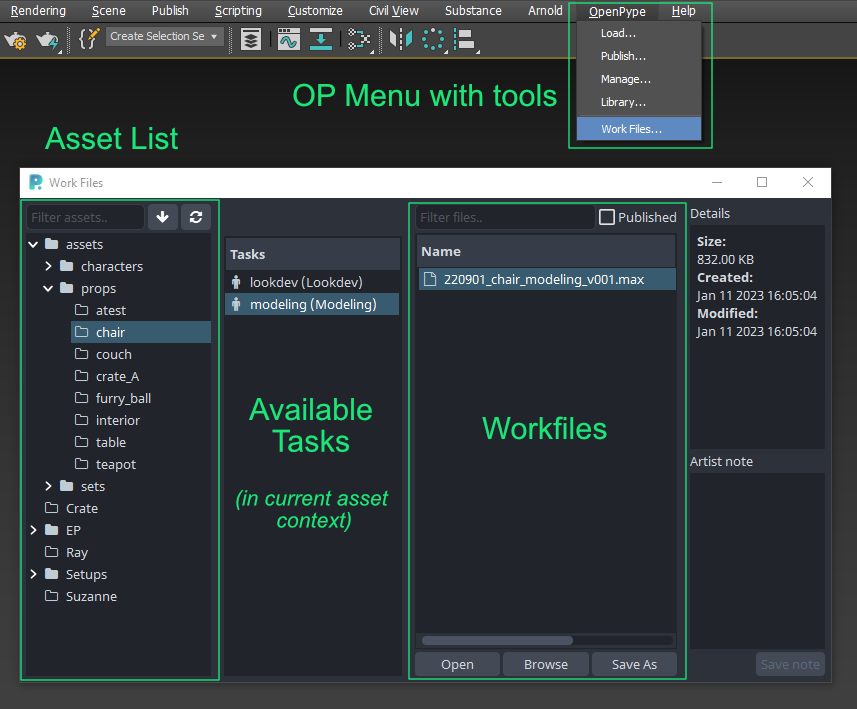
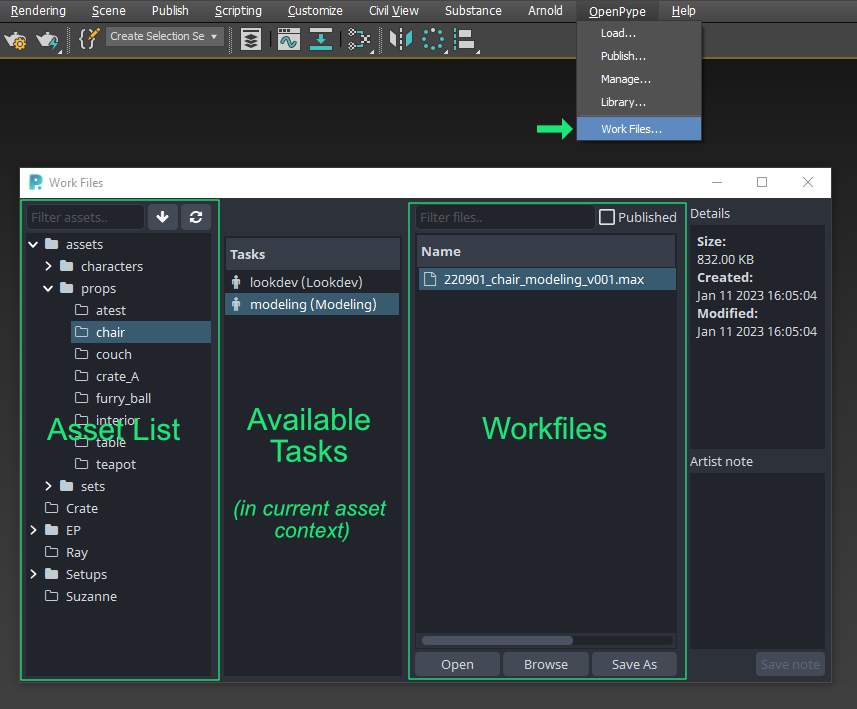
new pics and descriptions, also marked unused topics originating from blender host doc

diff --git a/website/docs/artist_hosts_3dsmax.md b/website/docs/artist_hosts_3dsmax.md
@@ -20,13 +20,15 @@ This part of documentation is still work in progress.
 -->
 
 
-## First Steps With OpenPype Running
+## First Steps With OpenPype
 
 Locate **OpenPype Icon** in the OS tray (if hidden dive in the tray toolbar).
 
-*If you cannot locate the OpenPype icon ...it is not probably running so check [Getting Started](artist_getting_started.md) first.*
+> If you cannot locate the OpenPype icon ...it is not probably running so check [Getting Started](artist_getting_started.md) first.
 
-By **clicking the OP icon**  ```OpenPype Menu``` rolls out. Choose ```OpenPype Menu > Launcher``` to open the ```Launcher``` window.
+By clicking the icon  ```OpenPype Menu``` rolls out.
+
+Choose ```OpenPype Menu > Launcher``` to open the ```Launcher``` window.
 
 When opened you can **choose** the **project** to work in from the list. Then choose the particular **asset** you want to work on then choose **task** 
 and finally **run 3dsmax by its icon** in the tools.
@@ -44,29 +46,36 @@ This is the core functional area for you as a user. Most of your actions will ta
 
 ![Menu OpenPype](assets/3dsmax_menu_first_OP.png)
 
-
 :::note OpenPype Menu
-User instead of using classic ```File > Open``` and ```Save As``` actions uses this menu for working with scene files (reffered as **workfiles**) completely discarding native file operations even though still functional and available. User can use ```File > Save``` by constantly hitting ```CTRL+S``` keys for quickly saving changes for example.
+User should use this menu for Opening / Saving when dealing with work files not standard 3dsmax ```File Menu``` even though still possible.
 :::
 
 ## Working With Scene Files
 
-First go to ```Work Files``` menu item so **Work Files  Window** shows up. Here you can perform Save/Load actions as you would normally do with ```File Save ``` and/or ```File Open``` in the standard 3dsmax File Menu.
+In OpenPype menu first go to ```Work Files``` menu item so **Work Files  Window** shows up.
 
-```OP Menu > Work Files...``` basically substitutes all file operations user can perform.
+ Here you can perform Save / Load actions as you would normally do with ```File Save ``` and ```File Open``` in the standard 3dsmax ```File Menu``` and navigate to different project components like assets, tasks, workfiles etc.
 
-You first choose the project in left top window then particular asset present in the project and it's task available to you as an artist. Finally you choose the workfile to open. If not any workfile present you simply hit ```Save As``` button.
-
-
-
-Here is an overview of the Work Files window with descriptions what each area is used for and could contain.
 
 ![Menu OpenPype](assets/3dsmax_menu_OP.png)
 
-:::note Work Files window
-Think of reading from left to right manner mimicking hiearchy of listed items ```Project``` > ```asset``` > ```task``` > ```workfile``` going from parent to children.
-:::
+You first choose particular asset and assigned task and corresponding workfile you would like to open.
 
+If not any workfile present simply hit ```Save As``` and keep ```Subversion``` empty and hitting ```Ok```.
+
+![Save As Dialog](assets/3dsmax_SavingFirstFile_OP.png)
+
+OpenPype correctly names it and add version to the workfile. This basically happens whenever user trigger ```Save As``` action. Resulting into incremental version numbers like ```workfileName_v001``` ```workfileName_v002``` etc. 
+
+> There also additional tools for naming like ```Subversion``` in ```Save As``` dialog but we won't dive into it for now.
+
+![Save As Dialog](assets/3dsmax_SavingFirstFile2_OP.png)
+
+## Understanding Context
+
+It is good to be aware that whenever you as a user choose ```asset``` and ```task``` you happen to be in so called **context** meaning that all user actions are in relation with particular ```asset```. This could be quickly seen in host application header and or ```OpenPype Menu``` and its accompanying tools.
+
+![Workfile Context](assets/3dsmax_context.png)
 
 ---
 
